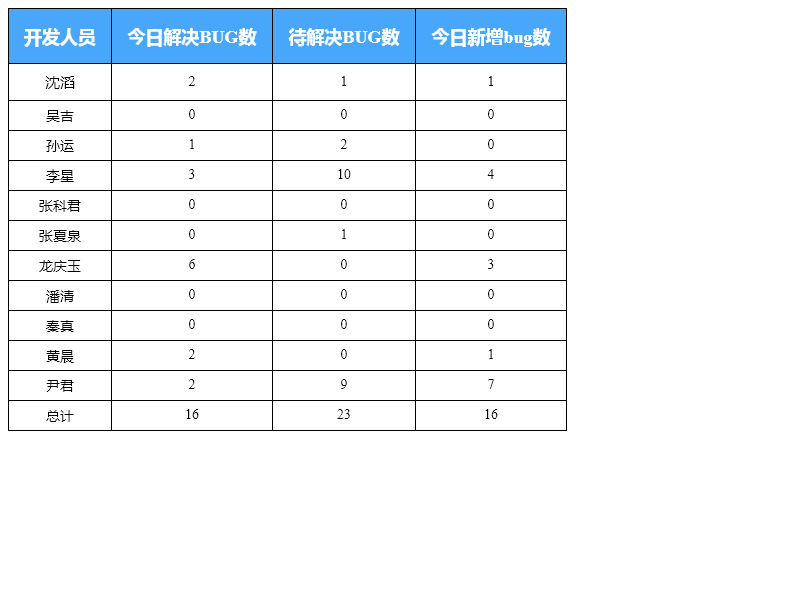
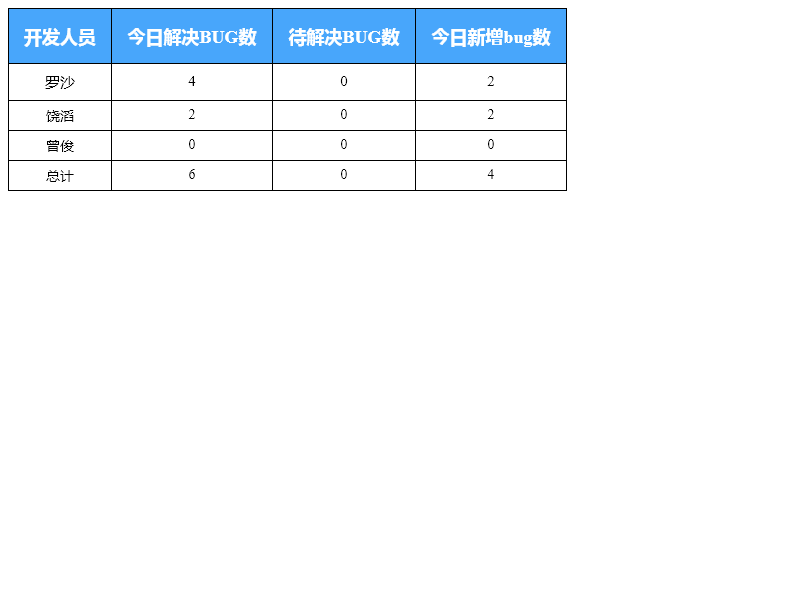
2021/3/8

diff --git a/Tapd/html/developerHtml.html b/Tapd/html/developerHtml.html
@@ -5,6 +5,6 @@
     <title>模板</title>
 </head>
 <body>
-<table style="border-collapse:collapse;word-break:keep-all;white-space:nowrap;font-size:14px;"><tr style="color:#fff;background-color:#48a6fb;font-size:18px;"><th style="border-color:#000;border-width:1px;border-style:solid;padding:15px;text-align:center;">开发人员</th><th style="border-color:#000;border-width:1px;border-style:solid;padding:15px;text-align:center;">今日解决BUG数</th><th style="border-color:#000;border-width:1px;border-style:solid;padding:15px;text-align:center;">待解决BUG数</th><th style="border-color:#000;border-width:1px;border-style:solid;padding:15px;text-align:center;">今日新增bug数</th></tr><tr><td style="border-color:#000;border-width:1px;border-style:solid;padding:8px;text-align:center;font-size:15px;">沈滔</td><td style="border-color:#000;border-width:1px;border-style:solid;padding:8px;text-align:center;font-size:15px;">2</td><td style="border-color:#000;border-width:1px;border-style:solid;padding:8px;text-align:center;font-size:15px;">1</td><td style="border-color:#000;border-width:1px;border-style:solid;padding:8px;text-align:center;font-size:15px;">1</td></tr><tr><td style="border-color:#000;border-width:1px;border-style:solid;padding:5px;text-align:center;">吴吉</td><td style="border-color:#000;border-width:1px;border-style:solid;padding:5px;text-align:center;">0</td><td style="border-color:#000;border-width:1px;border-style:solid;padding:5px;text-align:center;">0</td><td style="border-color:#000;border-width:1px;border-style:solid;padding:5px;text-align:center;">0</td></tr><tr><td style="border-color:#000;border-width:1px;border-style:solid;padding:5px;text-align:center;">孙运</td><td style="border-color:#000;border-width:1px;border-style:solid;padding:5px;text-align:center;">1</td><td style="border-color:#000;border-width:1px;border-style:solid;padding:5px;text-align:center;">2</td><td style="border-color:#000;border-width:1px;border-style:solid;padding:5px;text-align:center;">0</td></tr><tr><td style="border-color:#000;border-width:1px;border-style:solid;padding:5px;text-align:center;">李星</td><td style="border-color:#000;border-width:1px;border-style:solid;padding:5px;text-align:center;">3</td><td style="border-color:#000;border-width:1px;border-style:solid;padding:5px;text-align:center;">10</td><td style="border-color:#000;border-width:1px;border-style:solid;padding:5px;text-align:center;">4</td></tr><tr><td style="border-color:#000;border-width:1px;border-style:solid;padding:5px;text-align:center;">张科君</td><td style="border-color:#000;border-width:1px;border-style:solid;padding:5px;text-align:center;">0</td><td style="border-color:#000;border-width:1px;border-style:solid;padding:5px;text-align:center;">0</td><td style="border-color:#000;border-width:1px;border-style:solid;padding:5px;text-align:center;">0</td></tr><tr><td style="border-color:#000;border-width:1px;border-style:solid;padding:5px;text-align:center;">张夏泉</td><td style="border-color:#000;border-width:1px;border-style:solid;padding:5px;text-align:center;">0</td><td style="border-color:#000;border-width:1px;border-style:solid;padding:5px;text-align:center;">1</td><td style="border-color:#000;border-width:1px;border-style:solid;padding:5px;text-align:center;">0</td></tr><tr><td style="border-color:#000;border-width:1px;border-style:solid;padding:5px;text-align:center;">龙庆玉</td><td style="border-color:#000;border-width:1px;border-style:solid;padding:5px;text-align:center;">6</td><td style="border-color:#000;border-width:1px;border-style:solid;padding:5px;text-align:center;">0</td><td style="border-color:#000;border-width:1px;border-style:solid;padding:5px;text-align:center;">3</td></tr><tr><td style="border-color:#000;border-width:1px;border-style:solid;padding:5px;text-align:center;">潘清</td><td style="border-color:#000;border-width:1px;border-style:solid;padding:5px;text-align:center;">0</td><td style="border-color:#000;border-width:1px;border-style:solid;padding:5px;text-align:center;">0</td><td style="border-color:#000;border-width:1px;border-style:solid;padding:5px;text-align:center;">0</td></tr><tr><td style="border-color:#000;border-width:1px;border-style:solid;padding:5px;text-align:center;">秦真</td><td style="border-color:#000;border-width:1px;border-style:solid;padding:5px;text-align:center;">0</td><td style="border-color:#000;border-width:1px;border-style:solid;padding:5px;text-align:center;">0</td><td style="border-color:#000;border-width:1px;border-style:solid;padding:5px;text-align:center;">0</td></tr><tr><td style="border-color:#000;border-width:1px;border-style:solid;padding:5px;text-align:center;">黄晨</td><td style="border-color:#000;border-width:1px;border-style:solid;padding:5px;text-align:center;">2</td><td style="border-color:#000;border-width:1px;border-style:solid;padding:5px;text-align:center;">0</td><td style="border-color:#000;border-width:1px;border-style:solid;padding:5px;text-align:center;">1</td></tr><tr><td style="border-color:#000;border-width:1px;border-style:solid;padding:5px;text-align:center;">尹君</td><td style="border-color:#000;border-width:1px;border-style:solid;padding:5px;text-align:center;">2</td><td style="border-color:#000;border-width:1px;border-style:solid;padding:5px;text-align:center;">9</td><td style="border-color:#000;border-width:1px;border-style:solid;padding:5px;text-align:center;">7</td></tr><tr><td style="border-color:#000;border-width:1px;border-style:solid;padding:5px;text-align:center;">总计</td><td style="border-color:#000;border-width:1px;border-style:solid;padding:5px;text-align:center;">16</td><td style="border-color:#000;border-width:1px;border-style:solid;padding:5px;text-align:center;">23</td><td style="border-color:#000;border-width:1px;border-style:solid;padding:5px;text-align:center;">16</td></tr></table>
+<table style="border-collapse:collapse;word-break:keep-all;white-space:nowrap;font-size:14px;"><tr style="color:#fff;background-color:#48a6fb;font-size:18px;"><th style="border-color:#000;border-width:1px;border-style:solid;padding:15px;text-align:center;">开发人员</th><th style="border-color:#000;border-width:1px;border-style:solid;padding:15px;text-align:center;">今日解决BUG数</th><th style="border-color:#000;border-width:1px;border-style:solid;padding:15px;text-align:center;">待解决BUG数</th><th style="border-color:#000;border-width:1px;border-style:solid;padding:15px;text-align:center;">今日新增bug数</th></tr><tr><td style="border-color:#000;border-width:1px;border-style:solid;padding:8px;text-align:center;font-size:15px;">罗沙</td><td style="border-color:#000;border-width:1px;border-style:solid;padding:8px;text-align:center;font-size:15px;">4</td><td style="border-color:#000;border-width:1px;border-style:solid;padding:8px;text-align:center;font-size:15px;">0</td><td style="border-color:#000;border-width:1px;border-style:solid;padding:8px;text-align:center;font-size:15px;">2</td></tr><tr><td style="border-color:#000;border-width:1px;border-style:solid;padding:5px;text-align:center;">饶滔</td><td style="border-color:#000;border-width:1px;border-style:solid;padding:5px;text-align:center;">2</td><td style="border-color:#000;border-width:1px;border-style:solid;padding:5px;text-align:center;">0</td><td style="border-color:#000;border-width:1px;border-style:solid;padding:5px;text-align:center;">2</td></tr><tr><td style="border-color:#000;border-width:1px;border-style:solid;padding:5px;text-align:center;">曾俊</td><td style="border-color:#000;border-width:1px;border-style:solid;padding:5px;text-align:center;">0</td><td style="border-color:#000;border-width:1px;border-style:solid;padding:5px;text-align:center;">0</td><td style="border-color:#000;border-width:1px;border-style:solid;padding:5px;text-align:center;">0</td></tr><tr><td style="border-color:#000;border-width:1px;border-style:solid;padding:5px;text-align:center;">总计</td><td style="border-color:#000;border-width:1px;border-style:solid;padding:5px;text-align:center;">6</td><td style="border-color:#000;border-width:1px;border-style:solid;padding:5px;text-align:center;">0</td><td style="border-color:#000;border-width:1px;border-style:solid;padding:5px;text-align:center;">4</td></tr></table>
 </body>
 </html>

diff --git a/Tapd/html/testerHtml.html b/Tapd/html/testerHtml.html
@@ -5,6 +5,6 @@
     <title>模板</title>
 </head>
 <body>
-<table style="border-collapse:collapse;word-break:keep-all;white-space:nowrap;font-size:14px;"><tr style="color:#fff;background-color:#48a6fb;font-size:18px;"><th style="border-color:#000;border-width:1px;border-style:solid;padding:15px;text-align:center;">测试人员</th><th style="border-color:#000;border-width:1px;border-style:solid;padding:15px;text-align:center;">今日提交BUG数</th><th style="border-color:#000;border-width:1px;border-style:solid;padding:15px;text-align:center;">待验证BUG数</th><th style="border-color:#000;border-width:1px;border-style:solid;padding:15px;text-align:center;">今日关闭BUG数</th></tr><tr><td style="border-color:#000;border-width:1px;border-style:solid;padding:8px;text-align:center;font-size:15px;">伍洋</td><td style="border-color:#000;border-width:1px;border-style:solid;padding:8px;text-align:center;font-size:15px;">3</td><td style="border-color:#000;border-width:1px;border-style:solid;padding:8px;text-align:center;font-size:15px;">8</td><td style="border-color:#000;border-width:1px;border-style:solid;padding:8px;text-align:center;font-size:15px;">14</td></tr><tr><td style="border-color:#000;border-width:1px;border-style:solid;padding:5px;text-align:center;">苏林子</td><td style="border-color:#000;border-width:1px;border-style:solid;padding:5px;text-align:center;">11</td><td style="border-color:#000;border-width:1px;border-style:solid;padding:5px;text-align:center;">7</td><td style="border-color:#000;border-width:1px;border-style:solid;padding:5px;text-align:center;">4</td></tr><tr><td style="border-color:#000;border-width:1px;border-style:solid;padding:5px;text-align:center;">刘巧利</td><td style="border-color:#000;border-width:1px;border-style:solid;padding:5px;text-align:center;">2</td><td style="border-color:#000;border-width:1px;border-style:solid;padding:5px;text-align:center;">0</td><td style="border-color:#000;border-width:1px;border-style:solid;padding:5px;text-align:center;">7</td></tr><tr><td style="border-color:#000;border-width:1px;border-style:solid;padding:5px;text-align:center;">文玉婷</td><td style="border-color:#000;border-width:1px;border-style:solid;padding:5px;text-align:center;">0</td><td style="border-color:#000;border-width:1px;border-style:solid;padding:5px;text-align:center;">7</td><td style="border-color:#000;border-width:1px;border-style:solid;padding:5px;text-align:center;">0</td></tr><tr><td style="border-color:#000;border-width:1px;border-style:solid;padding:5px;text-align:center;">刘迎</td><td style="border-color:#000;border-width:1px;border-style:solid;padding:5px;text-align:center;">0</td><td style="border-color:#000;border-width:1px;border-style:solid;padding:5px;text-align:center;">2</td><td style="border-color:#000;border-width:1px;border-style:solid;padding:5px;text-align:center;">2</td></tr><tr><td style="border-color:#000;border-width:1px;border-style:solid;padding:5px;text-align:center;">唐洁TangJie01</td><td style="border-color:#000;border-width:1px;border-style:solid;padding:5px;text-align:center;">2</td><td style="border-color:#000;border-width:1px;border-style:solid;padding:5px;text-align:center;">3</td><td style="border-color:#000;border-width:1px;border-style:solid;padding:5px;text-align:center;">2</td></tr><tr><td style="border-color:#000;border-width:1px;border-style:solid;padding:5px;text-align:center;">总计</td><td style="border-color:#000;border-width:1px;border-style:solid;padding:5px;text-align:center;">18</td><td style="border-color:#000;border-width:1px;border-style:solid;padding:5px;text-align:center;">27</td><td style="border-color:#000;border-width:1px;border-style:solid;padding:5px;text-align:center;">29</td></tr></table>
+<table style="border-collapse:collapse;word-break:keep-all;white-space:nowrap;font-size:14px;"><tr style="color:#fff;background-color:#48a6fb;font-size:18px;"><th style="border-color:#000;border-width:1px;border-style:solid;padding:15px;text-align:center;">测试人员</th><th style="border-color:#000;border-width:1px;border-style:solid;padding:15px;text-align:center;">今日提交BUG数</th><th style="border-color:#000;border-width:1px;border-style:solid;padding:15px;text-align:center;">待验证BUG数</th><th style="border-color:#000;border-width:1px;border-style:solid;padding:15px;text-align:center;">今日关闭BUG数</th></tr><tr><td style="border-color:#000;border-width:1px;border-style:solid;padding:8px;text-align:center;font-size:15px;">饶滔</td><td style="border-color:#000;border-width:1px;border-style:solid;padding:8px;text-align:center;font-size:15px;">4</td><td style="border-color:#000;border-width:1px;border-style:solid;padding:8px;text-align:center;font-size:15px;">0</td><td style="border-color:#000;border-width:1px;border-style:solid;padding:8px;text-align:center;font-size:15px;">6</td></tr><tr><td style="border-color:#000;border-width:1px;border-style:solid;padding:5px;text-align:center;">总计</td><td style="border-color:#000;border-width:1px;border-style:solid;padding:5px;text-align:center;">4</td><td style="border-color:#000;border-width:1px;border-style:solid;padding:5px;text-align:center;">0</td><td style="border-color:#000;border-width:1px;border-style:solid;padding:5px;text-align:center;">6</td></tr></table>
 </body>
 </html>

diff --git a/InvoiceRecognition/transform.py b/InvoiceRecognition/transform.py
@@ -1,0 +1,34 @@
+import json
+import base64
+from tencentcloud.common import credential
+from tencentcloud.common.profile.client_profile import ClientProfile
+from tencentcloud.common.profile.http_profile import HttpProfile
+from tencentcloud.common.exception.tencent_cloud_sdk_exception import TencentCloudSDKException
+from tencentcloud.ocr.v20181119 import ocr_client, models
+
+
+with open('./发票/通行票6.jpg', 'rb') as file:  # 转换图片成base64格式
+    data = file.read()
+    encodestr = base64.b64encode(data)
+    image_data = str(encodestr, 'utf-8')
+
+try:
+    cred = credential.Credential("AKIDiPwLYXq77wVpztn1QfJ0dKFqHbovn6Ms", "gZkKQberwunaY6Ij3UrREBNUVVpyvjcB")
+    httpProfile = HttpProfile()
+    httpProfile.endpoint = "ocr.tencentcloudapi.com"
+
+    clientProfile = ClientProfile()
+    clientProfile.httpProfile = httpProfile
+    client = ocr_client.OcrClient(cred, "ap-guangzhou", clientProfile)
+
+    req = models.MixedInvoiceOCRRequest()
+    params = {
+        "ImageBase64": image_data
+    }
+    req.from_json_string(json.dumps(params))
+
+    resp = client.MixedInvoiceOCR(req)
+    print(resp.to_json_string())
+
+except TencentCloudSDKException as err:
+    print(err)

diff --git a/Tapd/main.py b/Tapd/main.py
@@ -142,13 +142,12 @@ def developerData(my_datas, person, today, version):
 
 if __name__ == '__main__':
     # 脚本初始化(注意：首次执行需要清空record.json文件)
-    version = '2.1.7'
+    version = '数据异常监控'
     username = '17600445140'
     password = 'Hc17600445140'
-    roboturl = 'https://qyapi.weixin.qq.com/cgi-bin/webhook/send?key=a7d6ff37-bcf2-49d0-9f2c-dee68ec82e05'
-    # roboturl = 'https://qyapi.weixin.qq.com/cgi-bin/webhook/send?key=9607d7b2-6c72-4e73-ae7a-e27c0990b467'
-    developer = ["沈滔", "吴吉", "孙运", "李星", "张科君", "张夏泉", "龙庆玉", "潘清", "秦真", "黄晨", "尹君"]
-    tester = ["伍洋", "苏林子", "刘巧利", "文玉婷", "刘迎", "唐洁TangJie01"]
+    roboturl = 'https://qyapi.weixin.qq.com/cgi-bin/webhook/send?key=affadc5d-52dd-4f32-b0b6-eba94ba9b70a'
+    developer = ["罗沙", "饶滔", "曾俊"]
+    tester = ["饶滔"]
 
 
     today = strftime("%Y-%m-%d", localtime(time()))

diff --git a/InvoiceRecognition/imgBase64.py b/InvoiceRecognition/imgBase64.py
@@ -1,0 +1,10 @@
+import base64
+
+
+with open('./发票/专票1.jpg', 'rb') as file:  # 转换图片成base64格式
+    data = file.read()
+    encodestr = base64.b64encode(data)
+    image_data = str(encodestr, 'utf-8')
+
+print(image_data)
+
